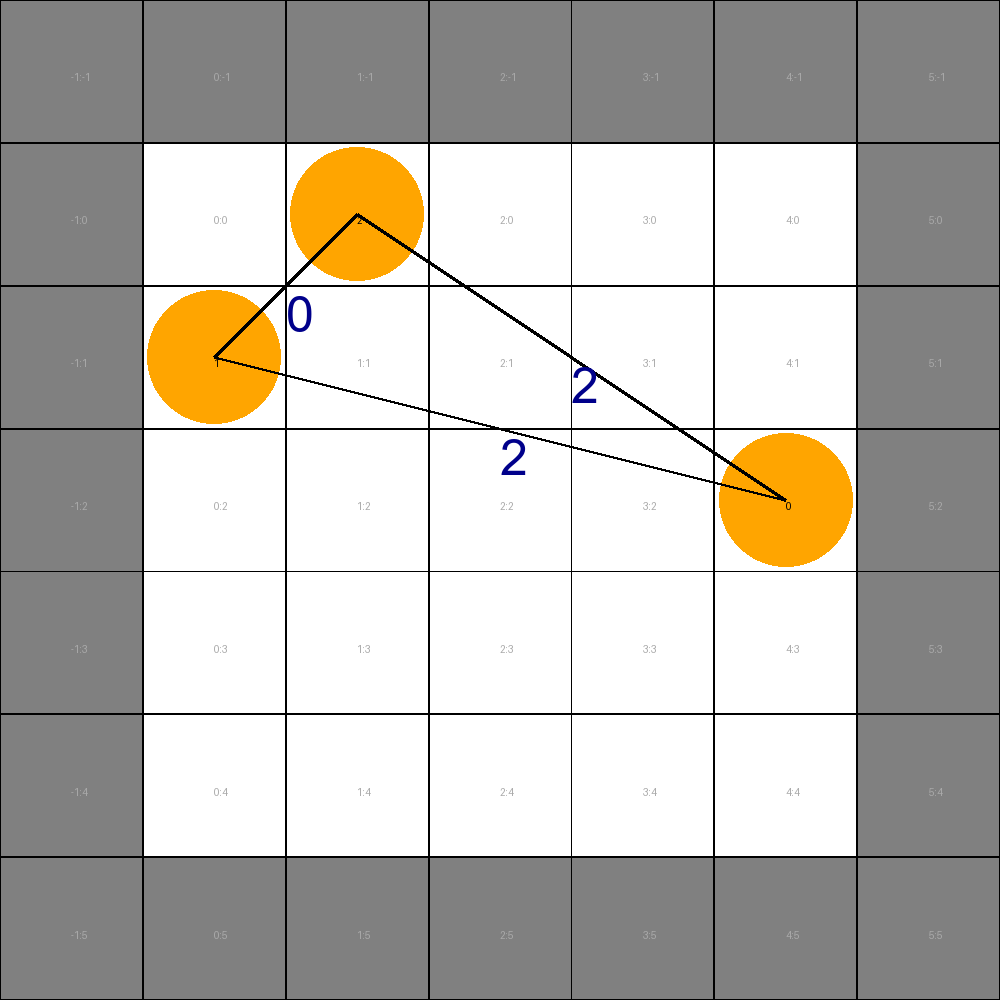
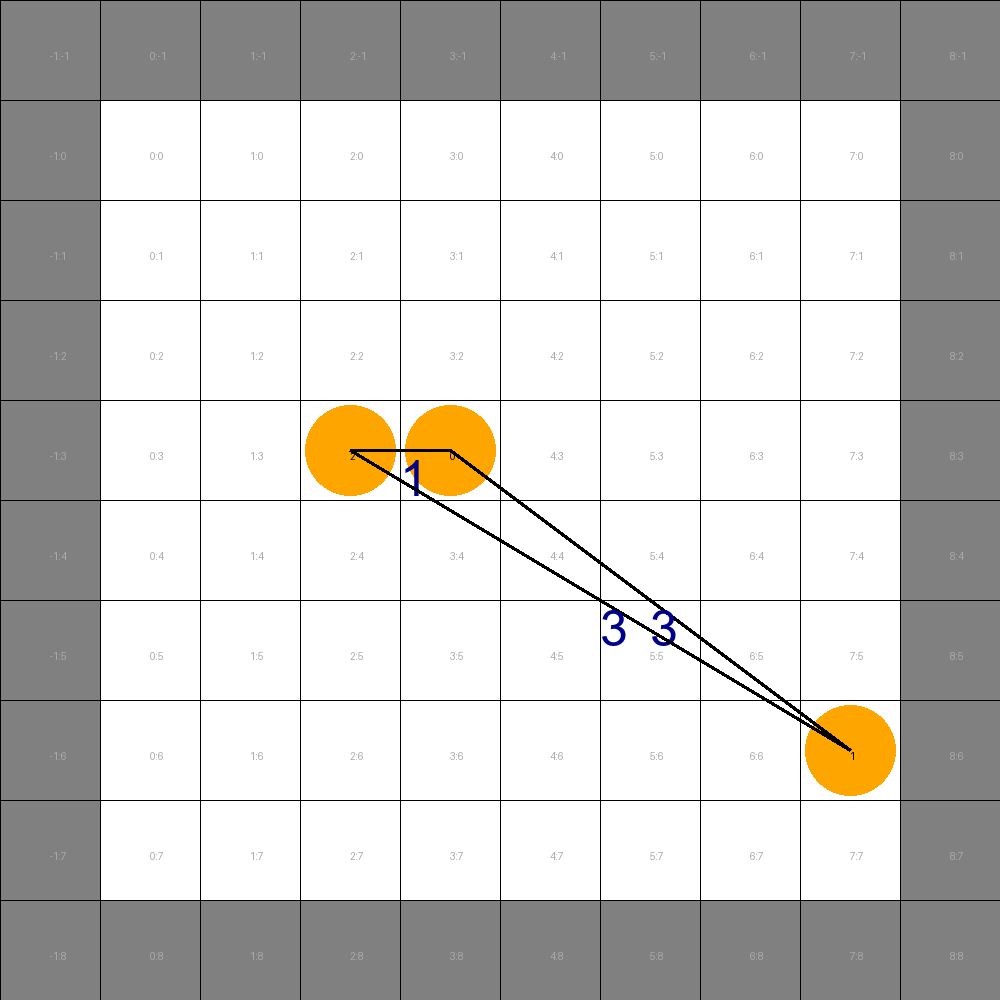
fixed rounding in bankers rounding and described the function

diff --git a/olympiad/4/visualise.py b/olympiad/4/visualise.py
@@ -2,14 +2,29 @@ from PIL import Image, ImageDraw, ImageFont
 import random
 
 def fire_time(f1:tuple[int, int], f2:tuple[int, int]) -> int:
+    """
+    find the time for fire1(f1) to connect with fire2(f2):
+
+    Answer key: time for Fire to get point A = minimal path distance from F to A
+
+    1)  find the x y components of the difference : |x1-x2|, |y1-y2|
+    2)  subtract 1 from each component to get rid of the corner,
+        and the abs() does deal with cases where y or x component is 0: 0-1 = -1 -> 1
+    3)  we can assign each number from x y components to the f1->f2 path,
+        but as we will notice there is allways one path piece missing in the x or y component
+        so we add it back as well we add the components together to add the total path distance,
+    4)  We have to divide the distance by 2 since the fire is spreading from both sides.
+    5)  In case distance is odd: (distance % 2 == 1), we have to get rid of the 1 path piece we added since we cannot
+        pass through path tiles diagonally, I do this by rounding DOWN to nearest integer.
+        (be careful when using round() with n + 0.5, the output is a result "banker’s rounding")
+    """
     x1, y1 = f1
     x2, y2 = f2
 
     x_c, y_c = abs(x1 - x2), abs(y1 - y2)
     x_c, y_c = abs(x_c - 1), abs(y_c - 1)
-    print(x_c, y_c)
 
-    return round((x_c + y_c + 1) / 2)
+    return round((x_c + y_c + 1) / 2 - 0.1)
 
 def font(size):
     return ImageFont.truetype("arial.ttf", size)
@@ -135,7 +150,7 @@ class FireImage:
 #FireImage(7,
 #          {0: (4, 3), 1: (2, 0), 2: (3, 6)},
 #          ).make_vis()
-n= 5
+n= 8
 m= 3
 fire = {x:(random.randint(0, n-1), random.randint(0, n -1)) for x in range(m)}
 

diff --git a/olympiad/4/test.py b/olympiad/4/test.py
@@ -1,1 +1,1 @@
-print({1:2, 3:4}.items())
+print(round(1.4))
